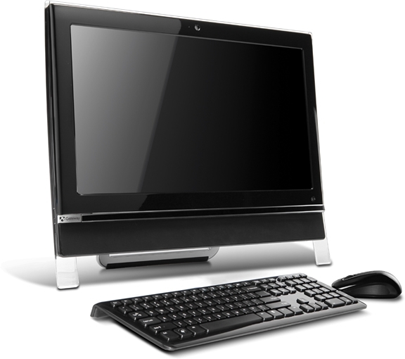
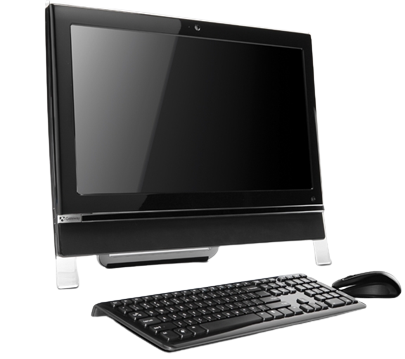
removed product image backgrounds

diff --git a/src/data.js b/src/data.js
@@ -81,7 +81,7 @@ export const programs = [
         icon: <MdMoveToInbox/>,
         title: "Shree Sava",
         info: "Software for Accounting, Invoicing & Stock. \nA generalized accounting software with great flexibility to suit your requirement with utmost simplicity has made Shree Sava a perfect choice for day to day accounting, invoicing & stock management. A very popular product in Saurashtra region which has blend of Traditional & Modern accounting system. It is very much useful among SMB segment of Industries & Trading.",
-        path: "/programs/111"
+        path: "/plans"
     },
     {
         id: 2,
@@ -331,7 +331,7 @@ export const products = [
     {
         id: 3,
         name: 'Network Servers',
-        image: require("./images/server.jpg"),
+        image: require("./images/server.png"),
         desc: [
             {point: 'Server Computing for network.'},
             {point: 'Control, manage and protect your network.'},
@@ -344,7 +344,7 @@ export const products = [
     {
         id: 4,
         name: 'Desktop Computers',
-        image: require("./images/desktop.jpg"),
+        image: require("./images/desktop.png"),
         desc: [
             {point: 'Personal Computer for regular use'},
             {point: 'Desk-sized Computer for Home & Office.'},
